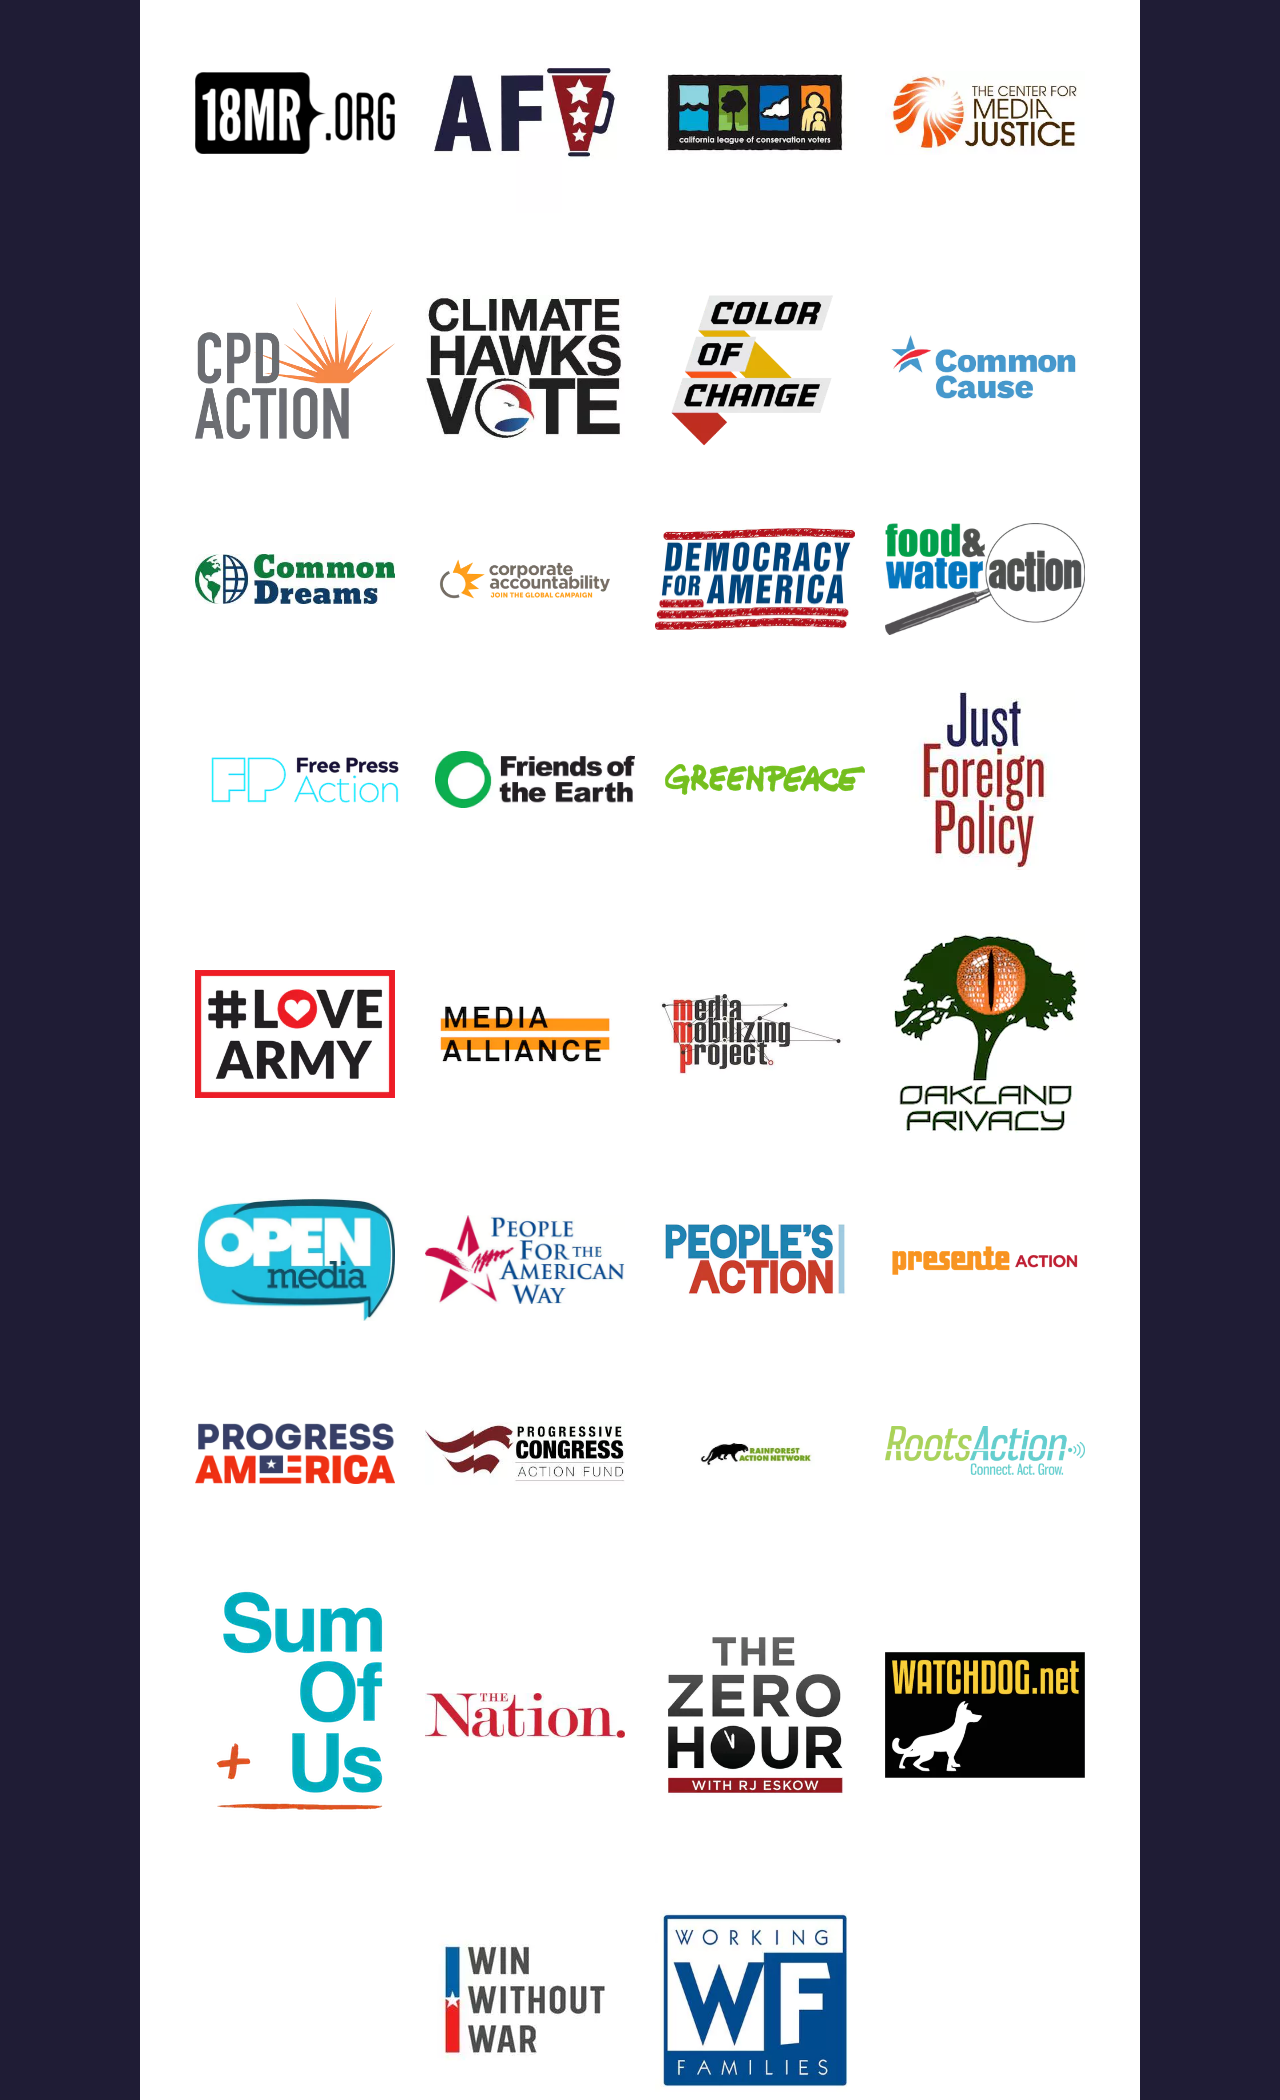
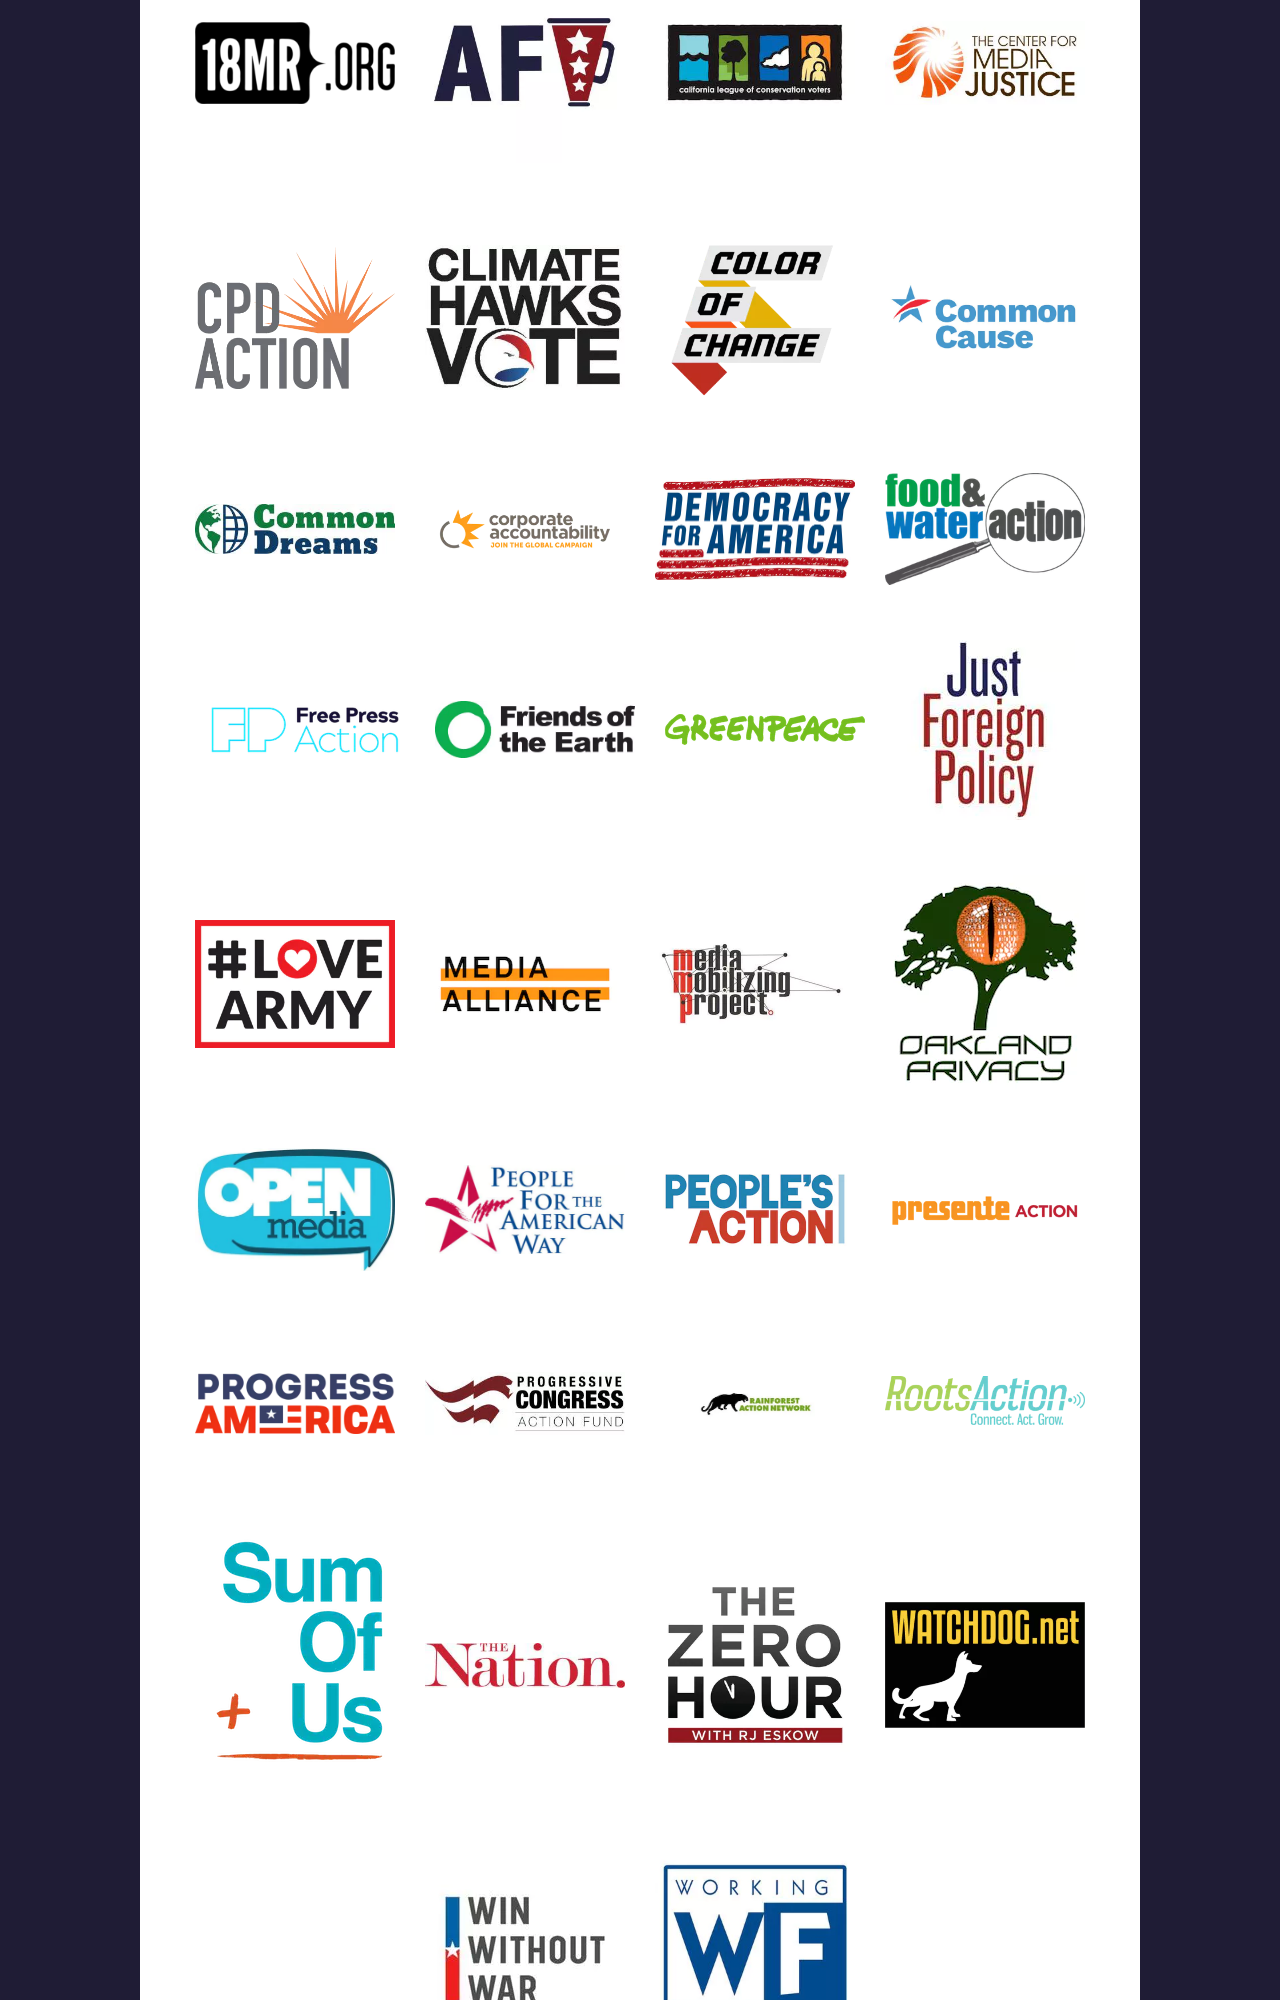
Update options.

diff --git a/correctScreenShots/getScreenShots.js b/correctScreenShots/getScreenShots.js
@@ -19,6 +19,7 @@ const correctSiteImages = (url, fileName, clip) => new Promise((resolve, reject)
     // Start the browser, go to that page, and take a screenshot.
     await page.goto(url, { waitUntil: 'networkidle2' });
     await page.setViewport({ width: 1280, height: 800 });
+    await page.waitFor(5000);
     await page.screenshot(options);
     browser.close();
     if (fs.existsSync(`./correctScreenShots/${fileName}`)) {
@@ -33,11 +34,11 @@ const correctSiteImages = (url, fileName, clip) => new Promise((resolve, reject)
 Promise.all([
   correctSiteImages('https://stopthefcc.net/', 'stopthefcc.png', {
     x: 0,
-    y: 2250,
+    y: 2300,
     width: 1280,
-    height: 2100,
+    height: 2000,
   }),
-  correctSiteImages('https://stopthewar.us', 'stopthewar.png', {
+  correctSiteImages('https://stopthewar.us/', 'stopthewar.png', {
     x: 200,
     y: 3330,
     width: 1280,

diff --git a/test/test.js b/test/test.js
@@ -49,9 +49,9 @@ describe('👀 screenshots are correct', () => {
         fullPage: false,
         clip: {
           x: 0,
-          y: 2250,
+          y: 2300,
           width: 1280,
-          height: 2100,
+          height: 2000,
         },
       };
       const comparedValue = await takeAndCompareScreenshot(page, 'https://stopthefcc.net/', 'liveSiteImages', fileName, options);
@@ -64,7 +64,7 @@ describe('👀 screenshots are correct', () => {
         fullPage: false,
         clip: {
           x: 200,
-          y: 2000,
+          y: 3330,
           width: 1280,
           height: 820,
         },
